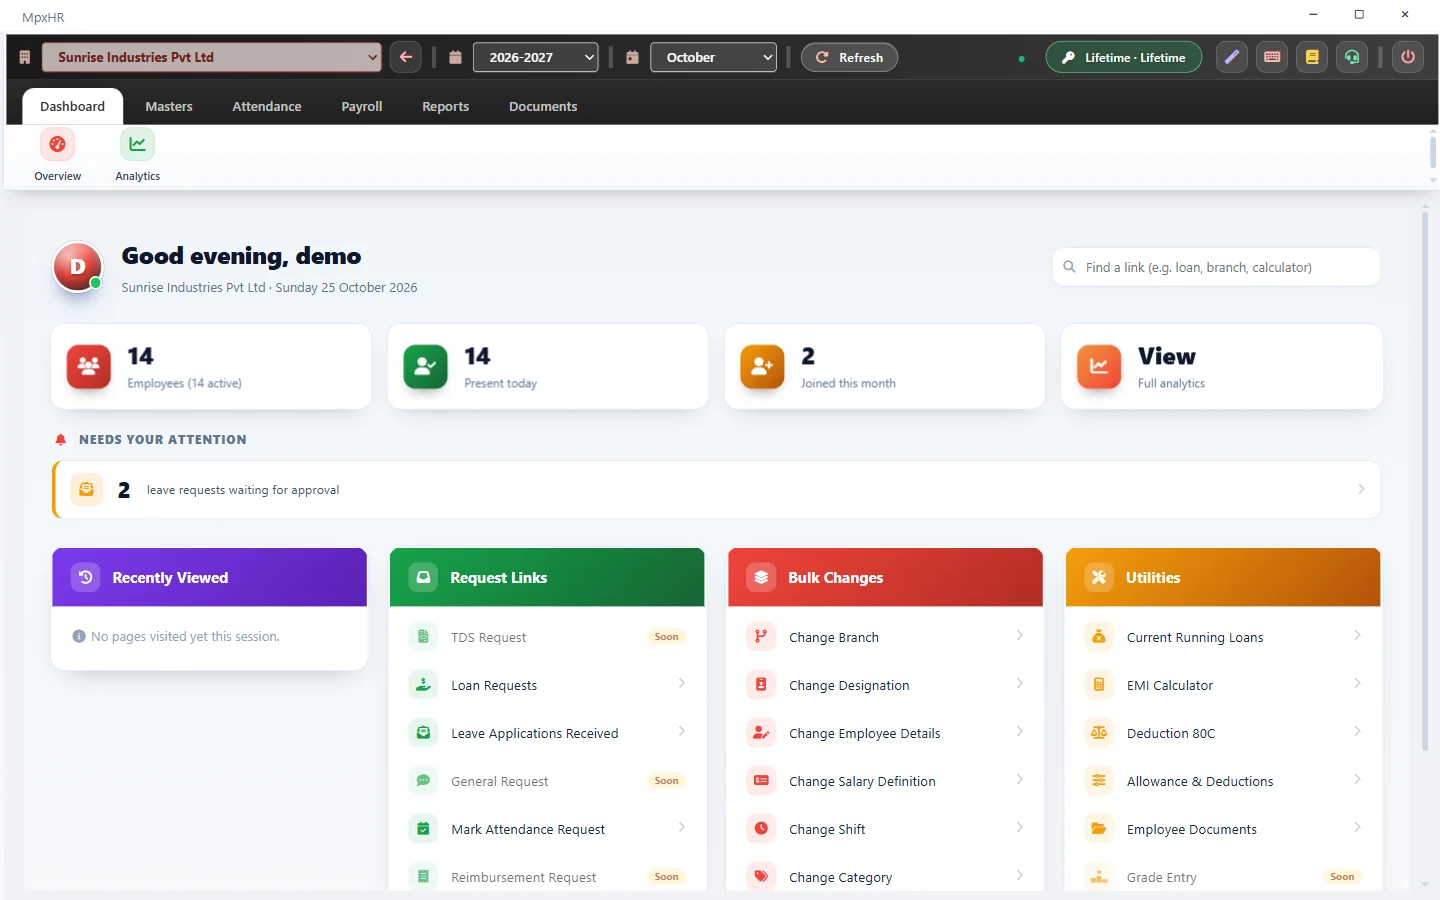
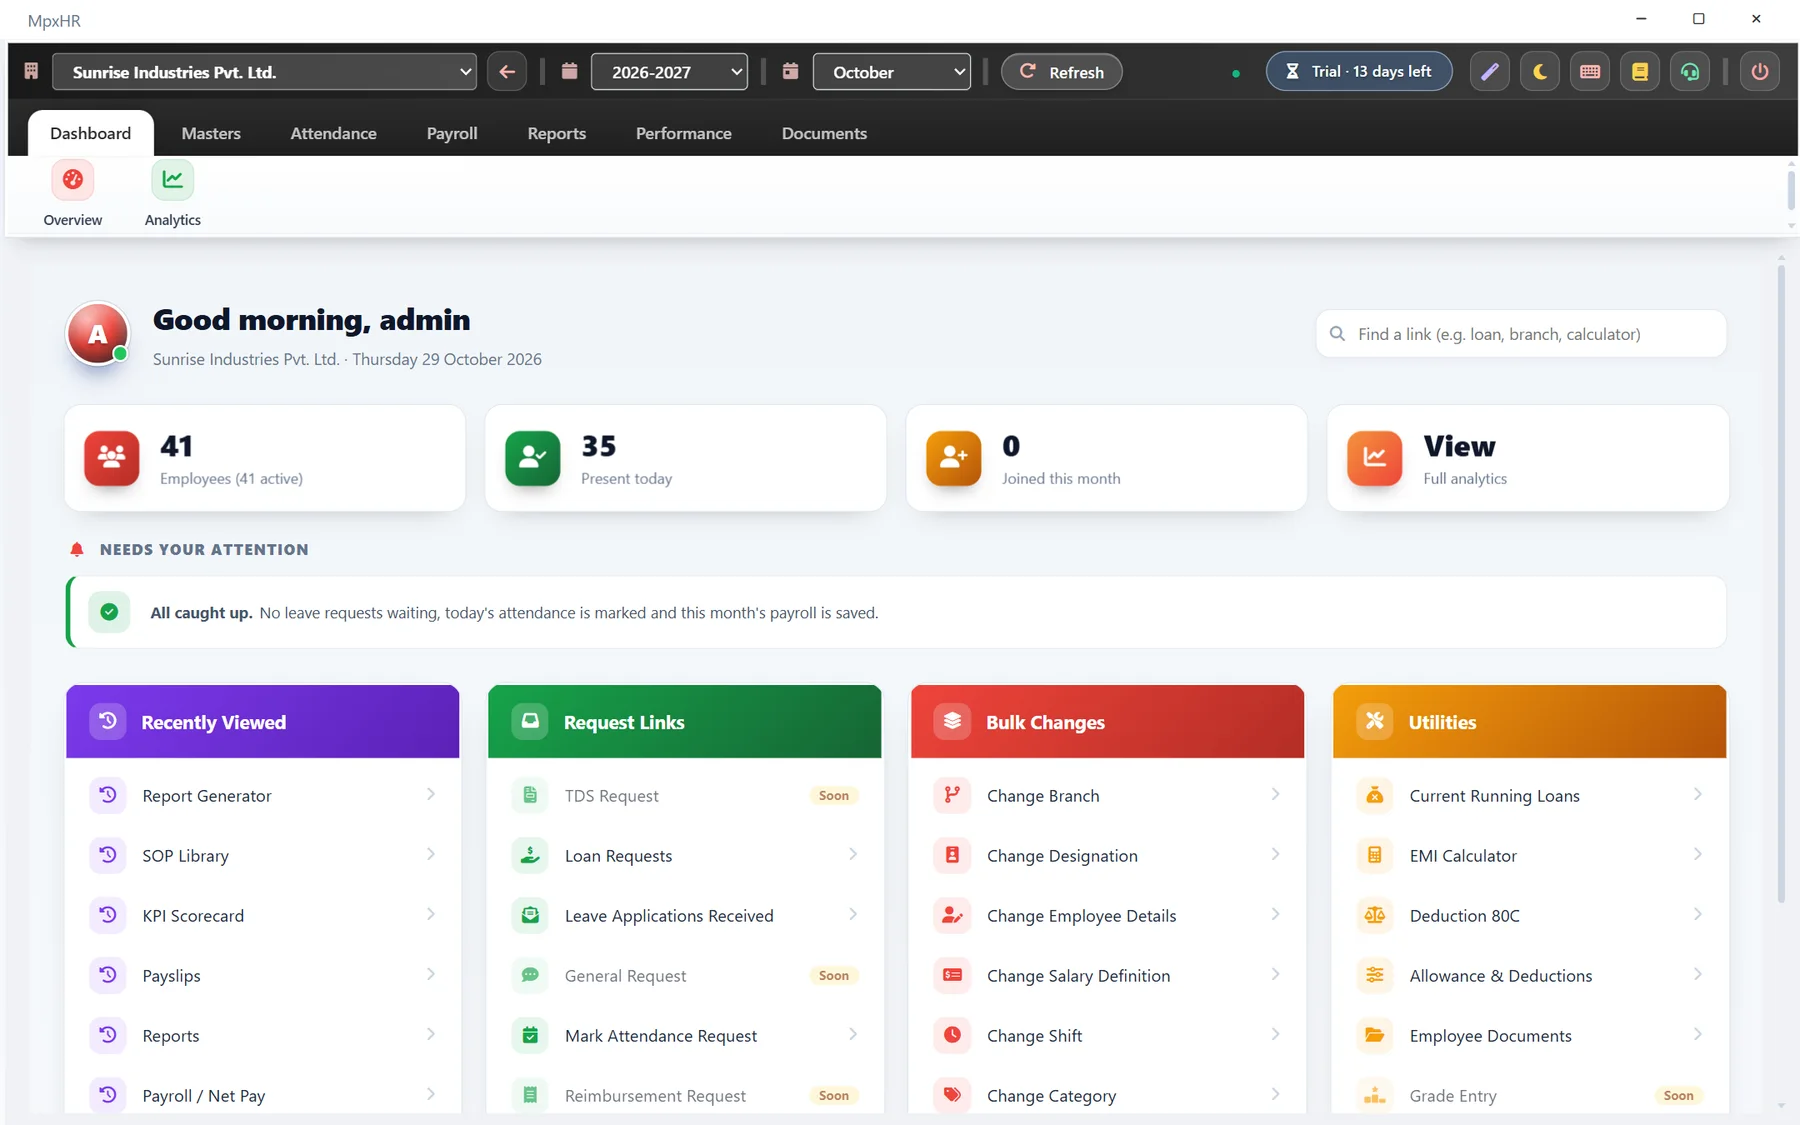
Home hero redesign: clearer type scale, product frame with feature chips, mobile and tablet layouts, fresh dashboard screenshot

diff --git a/index.html b/index.html
@@ -19,12 +19,13 @@
 <div class="tools"><a class="btn sq" href="contact.html">Contact Us</a><a class="btn sq outl" href="download.html">Downloads</a></div>
 </div></header>
 <main id="main"><section class="hero"><div class="wrap grid">
-<div class="hero-img"><img class="shot flat" src="assets/img/s03_dashboard.webp" alt="MpxHR dashboard in the new red and charcoal look" width="1440" height="900"></div>
-<div><a class="newpill" href="releases.html"><b>New</b> KPI Scorecard, SOP Library and Report Generator in v4.5.1 <svg class="ic " viewBox="0 0 24 24" fill="none" stroke="currentColor" stroke-width="2" stroke-linecap="round" stroke-linejoin="round" aria-hidden="true"><path d="M5 12h14M12 5l7 7-7 7"/></svg></a><div class="eyebrow">MpxHR Enterprise &middot; v4.5.1</div>
-<h1><span class="grad" data-i18n="hero.h1a">Payroll, attendance &amp; HR</span><span class="thin" data-i18n="hero.h1b">in one offline app</span></h1>
+<div class="copy"><a class="newpill" href="releases.html"><b>New</b> KPI Scorecard, SOP Library and Report Generator in v4.5.1 <svg class="ic " viewBox="0 0 24 24" fill="none" stroke="currentColor" stroke-width="2" stroke-linecap="round" stroke-linejoin="round" aria-hidden="true"><path d="M5 12h14M12 5l7 7-7 7"/></svg></a>
+<h1><span class="grad" data-i18n="hero.h1a">Payroll, attendance &amp; HR</span> <span class="plain" data-i18n="hero.h1b">in one offline app</span></h1>
 <p class="lead" data-i18n="hero.lead">MpxHR Enterprise is complete HR software for Windows: employee records, attendance and leave, payroll with PF, ESI and TDS, payslips, Form 16, KPI scorecards and SOPs, all in one place. Your data stays on your own computer, with no monthly cloud fee.</p>
 <div class="cta"><a class="btn sq" href="download.html"><span data-i18n="cta.dl">Download Now</span></a><a class="btn sq outl" href="videos.html"><span data-i18n="cta.demo">Watch the demo</span></a><a class="btn sq dark" href="https://wa.me/917519024625?text=Hello%2C%20I%20would%20like%20to%20know%20more%20about%20MpxHR." target="_blank" rel="noopener"><span data-i18n="cta.talk">Talk to Sales</span></a></div>
-<div class="badges"><span class="badge"><svg class="ic " viewBox="0 0 24 24" fill="none" stroke="currentColor" stroke-width="2" stroke-linecap="round" stroke-linejoin="round" aria-hidden="true"><path d="M1 1l22 22M16.72 11.06A10.94 10.94 0 0 1 19 12.55M5 12.55a10.94 10.94 0 0 1 5.17-2.39M10.71 5.05A16 16 0 0 1 22.58 9M1.42 9a15.91 15.91 0 0 1 4.7-2.88M8.53 16.11a6 6 0 0 1 6.95 0M12 20h.01"/></svg> <span data-i18n="badge.offline">100% offline</span></span><span class="badge"><svg class="ic " viewBox="0 0 24 24" fill="none" stroke="currentColor" stroke-width="2" stroke-linecap="round" stroke-linejoin="round" aria-hidden="true"><circle cx="12" cy="12" r="10"/><path d="M12 6v6l4 2"/></svg> <span data-i18n="badge.trial">14-day trial</span></span><span class="badge"><svg class="ic " viewBox="0 0 24 24" fill="none" stroke="currentColor" stroke-width="2" stroke-linecap="round" stroke-linejoin="round" aria-hidden="true"><path d="M20 6L9 17l-5-5"/></svg> <span data-i18n="badge.noadd">No hidden charges</span></span><span class="badge"><svg class="ic " viewBox="0 0 24 24" fill="none" stroke="currentColor" stroke-width="2" stroke-linecap="round" stroke-linejoin="round" aria-hidden="true"><path d="M18.178 8c5.096 0 5.096 8 0 8-5.095 0-7.133-8-12.739-8-4.585 0-4.585 8 0 8 5.606 0 7.644-8 12.74-8z"/></svg> <span data-i18n="badge.life">Lifetime plan</span></span></div></div>
+<ul class="trust"><li><svg class="ic " viewBox="0 0 24 24" fill="none" stroke="currentColor" stroke-width="2" stroke-linecap="round" stroke-linejoin="round" aria-hidden="true"><path d="M1 1l22 22M16.72 11.06A10.94 10.94 0 0 1 19 12.55M5 12.55a10.94 10.94 0 0 1 5.17-2.39M10.71 5.05A16 16 0 0 1 22.58 9M1.42 9a15.91 15.91 0 0 1 4.7-2.88M8.53 16.11a6 6 0 0 1 6.95 0M12 20h.01"/></svg> <span data-i18n="badge.offline">100% offline</span></li><li><svg class="ic " viewBox="0 0 24 24" fill="none" stroke="currentColor" stroke-width="2" stroke-linecap="round" stroke-linejoin="round" aria-hidden="true"><circle cx="12" cy="12" r="10"/><path d="M12 6v6l4 2"/></svg> <span data-i18n="badge.trial">14-day trial</span></li><li><svg class="ic " viewBox="0 0 24 24" fill="none" stroke="currentColor" stroke-width="2" stroke-linecap="round" stroke-linejoin="round" aria-hidden="true"><path d="M20 6L9 17l-5-5"/></svg> <span data-i18n="badge.noadd">No hidden charges</span></li><li><svg class="ic " viewBox="0 0 24 24" fill="none" stroke="currentColor" stroke-width="2" stroke-linecap="round" stroke-linejoin="round" aria-hidden="true"><path d="M18.178 8c5.096 0 5.096 8 0 8-5.095 0-7.133-8-12.739-8-4.585 0-4.585 8 0 8 5.606 0 7.644-8 12.74-8z"/></svg> <span data-i18n="badge.life">Lifetime plan</span></li></ul></div>
+<div class="hero-art"><div class="frame"><div class="show-bar"><i></i><i></i><i></i></div><img class="shot flat" src="assets/img/s03_dashboard.webp" alt="MpxHR dashboard" width="1800" height="1125"></div>
+<span class="fchip fc1"><svg class="ic " viewBox="0 0 24 24" fill="none" stroke="currentColor" stroke-width="2" stroke-linecap="round" stroke-linejoin="round" aria-hidden="true"><path d="M20 6L9 17l-5-5"/></svg> PF &middot; ESI &middot; TDS</span><span class="fchip fc2"><svg class="ic " viewBox="0 0 24 24" fill="none" stroke="currentColor" stroke-width="2" stroke-linecap="round" stroke-linejoin="round" aria-hidden="true"><circle cx="12" cy="12" r="10"/><circle cx="12" cy="12" r="6"/><circle cx="12" cy="12" r="2"/></svg> KPI Scorecard <em>new</em></span><span class="fchip fc3"><svg class="ic " viewBox="0 0 24 24" fill="none" stroke="currentColor" stroke-width="2" stroke-linecap="round" stroke-linejoin="round" aria-hidden="true"><path d="M14 2H6a2 2 0 0 0-2 2v16a2 2 0 0 0 2 2h12a2 2 0 0 0 2-2V8z"/><path d="M14 2v6h6M16 13H8M16 17H8M10 9H8"/></svg> Editable Word payslip</span></div>
 </div></section>
 <section class="s"><div class="wrap">
 <div class="grid4"><div class="card stat"><b>Offline</b><span>works without internet</span></div><div class="card stat"><b>14 days</b><span>free trial, 50 employees</span></div><div class="card stat"><b>₹3,360</b><span>per year to start, 40% off now</span></div><div class="card stat"><b>EN + हिंदी</b><span>support in your language</span></div></div>

diff --git a/assets/site.css b/assets/site.css
@@ -401,3 +401,39 @@ html,body{overflow-x:hidden}
 .newtag{background:var(--brand);color:#fff;border-radius:99px;padding:2px 10px;font-size:.7rem;font-weight:800;letter-spacing:.05em;text-transform:uppercase}
 .modgrid .mod.isnew{border:2px solid var(--brand);box-shadow:0 18px 40px -24px var(--brand)}
 @media(min-width:901px){.modgrid,#why .grid3{grid-template-columns:repeat(3,minmax(0,1fr))}}
+/* ---- hero v2: text left, product right, one clear type scale ---- */
+.hero{perspective:none;padding:56px 0 72px;background:radial-gradient(720px 420px at 8% 8%,rgba(239,68,59,.09),transparent),radial-gradient(640px 420px at 100% 100%,rgba(245,158,11,.08),transparent),var(--bg)}
+.hero .grid{grid-template-columns:minmax(0,1fr) minmax(0,1.12fr);gap:clamp(28px,4vw,64px);align-items:center}
+.hero .copy{max-width:600px;animation:rise .8s cubic-bezier(.2,.8,.2,1) both}
+.hero .newpill{margin:0 0 20px}
+.hero h1{font-size:clamp(2.1rem,3.7vw,3.3rem);line-height:1.12;font-weight:800;letter-spacing:-.025em;margin:0 0 18px;text-wrap:balance;animation:none}
+.hero h1 .grad{display:inline}.hero h1 .plain{display:block;color:var(--ink);font-weight:800;-webkit-text-fill-color:currentColor}
+.hero p.lead{font-size:1.08rem;line-height:1.7;font-weight:400;color:var(--muted);max-width:52ch;margin:0 0 26px;animation:none}
+.hero .cta{display:flex;flex-wrap:wrap;gap:12px;margin:0 0 22px;animation:none}
+.hero .cta .btn{padding:15px 26px;font-size:1rem;min-height:52px;justify-content:center}
+.trust{list-style:none;margin:0;padding:0;display:flex;flex-wrap:wrap;gap:8px 22px;color:var(--muted);font-size:.9rem;font-weight:600}
+.trust li{display:inline-flex;align-items:center;gap:7px}.trust .ic{width:17px;height:17px;color:var(--brand)}
+.hero-art{position:relative;animation:artIn .9s cubic-bezier(.2,.8,.2,1) .1s both}
+.hero-art .frame{border-radius:16px;overflow:hidden;border:1px solid var(--line);background:var(--surface);box-shadow:0 40px 80px -40px rgba(30,10,10,.55),0 8px 24px -12px rgba(30,10,10,.25)}
+.hero-art .frame .show-bar{display:flex}
+.hero-art img.shot,.hero-art img.shot.flat{display:block;width:100%;height:auto;border-radius:0;border:0;box-shadow:none;filter:none;transform:none!important;animation:none}
+.fchip{position:absolute;display:inline-flex;align-items:center;gap:8px;padding:9px 14px;border-radius:12px;background:var(--surface);color:var(--ink);border:1px solid var(--line);box-shadow:0 14px 30px -14px rgba(0,0,0,.45);font-weight:700;font-size:.88rem;white-space:nowrap}
+.fchip .ic{width:17px;height:17px;color:var(--brand)}.fchip em{font-style:normal;background:var(--brand);color:#fff;border-radius:99px;padding:1px 8px;font-size:.68rem;text-transform:uppercase;letter-spacing:.04em}
+.fc1{left:-22px;top:14%;animation:chipUp 6s ease-in-out infinite}.fc2{right:-18px;top:42%;animation:chipUp 7s ease-in-out -2s infinite}.fc3{left:8%;bottom:-18px;animation:chipUp 6.5s ease-in-out -4s infinite}
+@keyframes chipUp{50%{transform:translateY(-8px)}}@keyframes artIn{from{opacity:0;transform:translateY(26px) scale(.985)}}
+@media(max-width:1100px){.fc1{left:8px}.fc2{right:8px}}
+@media(max-width:900px){.hero{padding:34px 0 52px}.hero .grid{grid-template-columns:1fr;gap:34px}.hero .copy{max-width:none}.hero-art{order:2}.fchip{display:none}.hero .cta .btn{flex:1 1 100%}.hero h1{font-size:clamp(1.9rem,8vw,2.5rem)}.hero p.lead{font-size:1rem}.trust{gap:8px 16px;font-size:.85rem}}
+@media(prefers-reduced-motion:reduce){.hero .copy,.hero-art,.fchip{animation:none!important}}
+/* hero v2 tuning */
+.hero .wrap{max-width:1240px}
+@media(min-width:901px){.hero .grid{grid-template-columns:minmax(0,.92fr) minmax(0,1.2fr)}}
+.hero .cta .btn{padding:13px 19px;font-size:.96rem}
+.fc1{left:22px;top:-18px}.fc2{right:-16px;bottom:24%;top:auto}.fc3{left:-14px;bottom:-16px}
+@media(max-width:1100px){.fc1{left:14px}.fc2{right:8px}.fc3{left:8px}}
+@media(max-width:900px){.newpill{border-radius:14px;font-size:.8rem;line-height:1.4;padding:6px 12px 6px 8px;align-items:center}.hero .cta .btn{padding:14px 20px}}
+@media(max-width:900px){
+ .grid4:has(.stat){grid-template-columns:repeat(2,minmax(0,1fr));gap:12px}.stat{padding:16px 10px}.stat b{font-size:1.5rem}.stat span{font-size:.82rem}
+ .modgrid .mod p{min-height:0}
+ .show-frame{overflow-x:auto;-webkit-overflow-scrolling:touch}.show-frame .show-img{min-width:760px}.show-frame::after{content:"Swipe to see more";display:block;text-align:center;font-size:.78rem;color:var(--muted);padding:6px 0;position:sticky;left:0}
+}
+@media(min-width:601px) and (max-width:900px){.hero .cta .btn{flex:0 1 auto}.hero-art{max-width:760px}}
